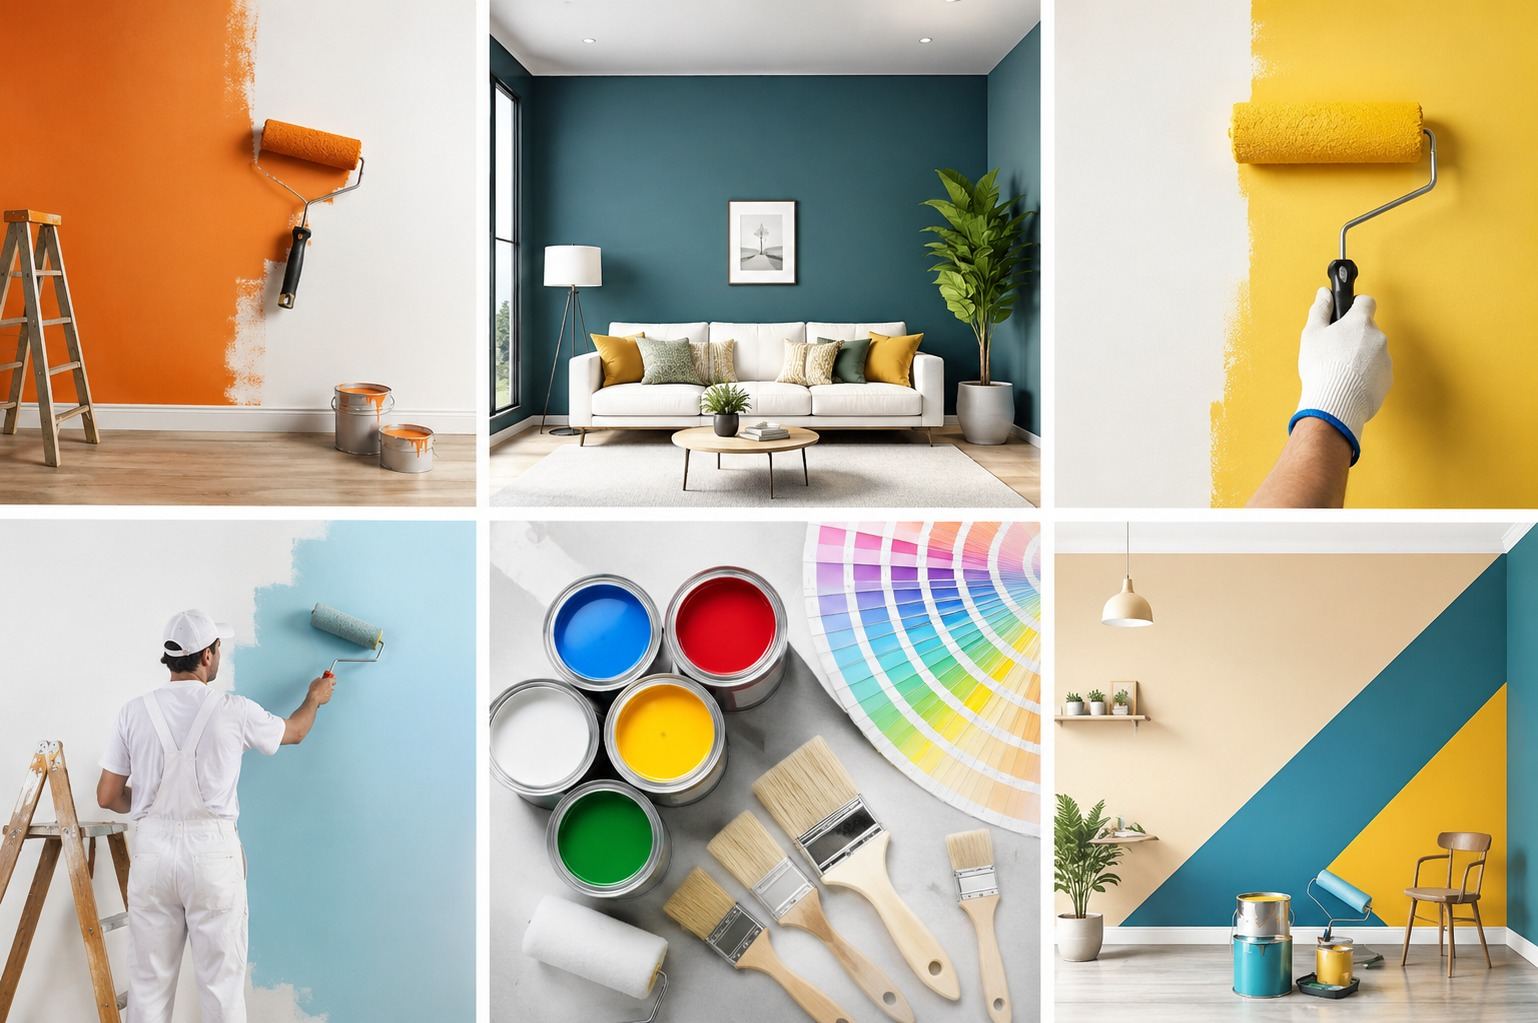
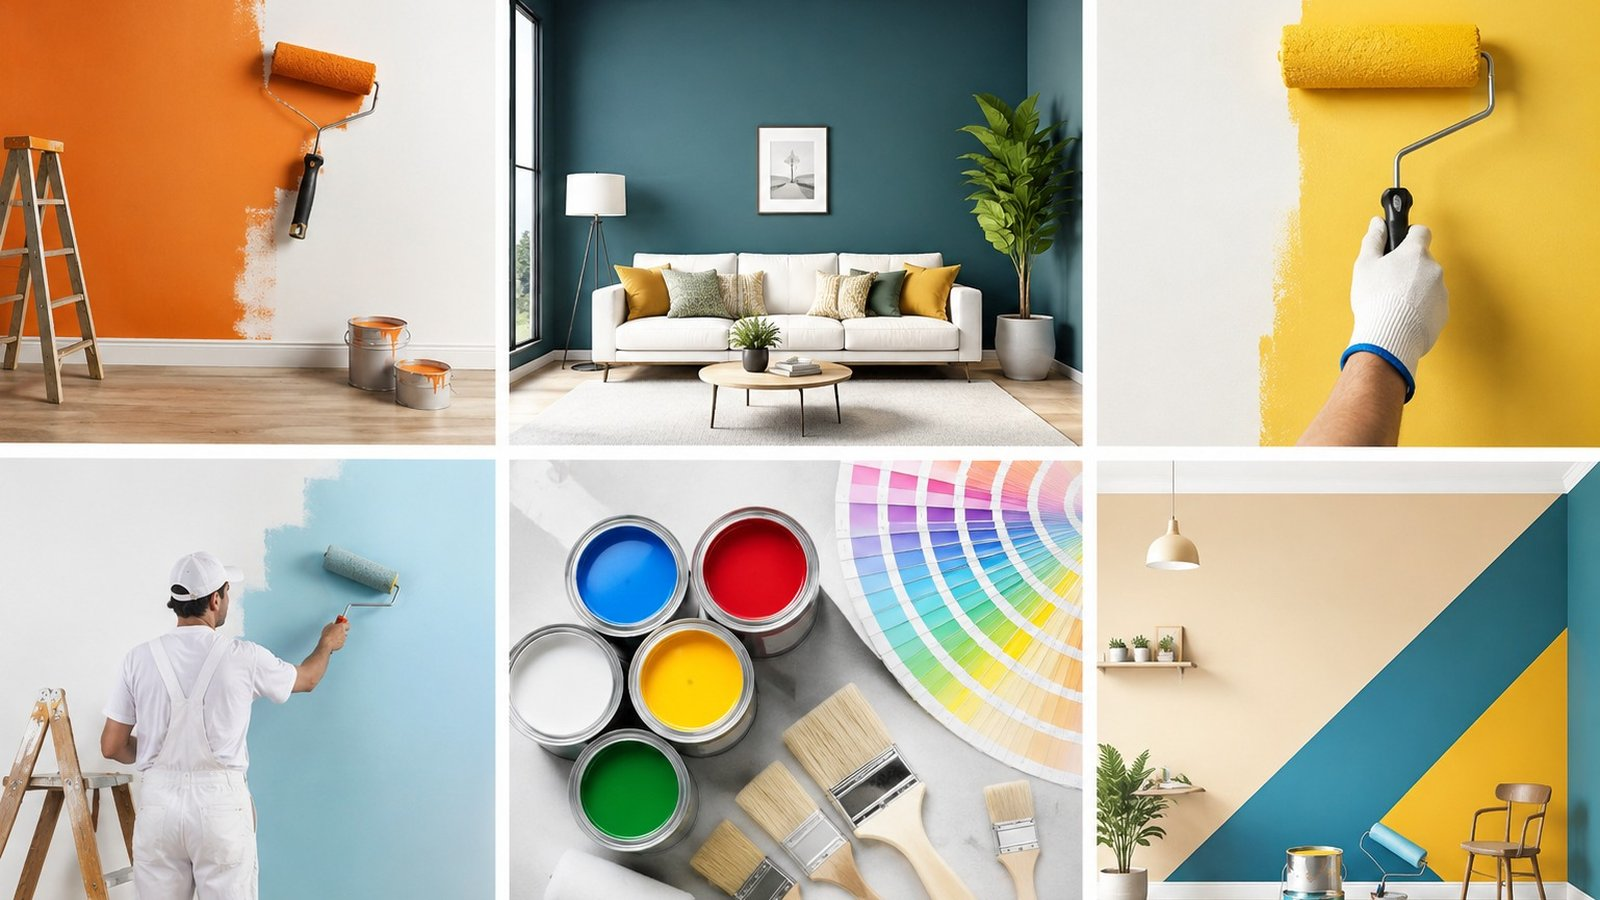
newly added

diff --git a/index.html b/index.html
@@ -127,20 +127,17 @@
 <!-- ===================== HERO WITH AUTO-CHANGING IMAGES ===================== -->
 <section class="hero">
   <div class="hero-slider" id="heroSlider">
-    <!-- Slide backgrounds are set via CSS (images/ folder paths in styles.css) -->
-    <div class="hero-slide slide-1 active" data-label="Interior Painting Excellence"></div>
-    <div class="hero-slide slide-2" data-label="Precision Wall Finishing"></div>
-    <div class="hero-slide slide-3" data-label="Professional Painting Teams"></div>
-    <div class="hero-slide slide-4" data-label="Waterproofing Specialists"></div>
-    <div class="hero-slide slide-5" data-label="Commercial Projects"></div>
+    <div class="hero-slide slide-1 active" data-label="Commercial Interior &amp; Furniture"></div>
+    <div class="hero-slide slide-2" data-label="Construction &amp; Civil Renovation"></div>
+    <div class="hero-slide slide-3" data-label="Painting &amp; Waterproofing"></div>
   </div>
   <div class="hero-overlay"></div>
   <div class="slide-dots" id="slideDots"></div>
-  <div class="slide-label" id="slideLabel">Interior Painting Excellence</div>
+  <div class="slide-label" id="slideLabel">Commercial Interior &amp; Furniture</div>
   <div class="hero-content">
     <div class="hero-badge">Chennai's Trusted Specialists Since 2010</div>
-    <h1>Painting &amp; <em>Waterproofing</em> Experts</h1>
-    <p class="hero-desc">Professional painting and waterproofing services across Chennai. Free inspection, expert workmanship, and guaranteed results — protecting your building inside and out.</p>
+    <h1 id="heroTitle">Xpert in Commercial <em>Interior and Furniture</em></h1>
+    <p class="hero-desc" id="heroDesc">Premium commercial interiors and custom furniture solutions crafted for offices, showrooms, and hospitality spaces across Chennai — free consultation, expert execution.</p>
     <div class="hero-btns">
       <a href="tel:[phone redacted]" class="btn-orange">📞 Get Free Quote</a>
       <a href="https://wa.me/919710908050" class="btn-teal">💬 Book Site Visit</a>
@@ -160,13 +157,14 @@
   <div class="stat-item reveal"><div class="big">5yr</div><div class="desc">Warranty on Work</div></div>
   <div class="stat-item reveal"><div class="big">Free</div><div class="desc">Site Inspection</div></div>
 </div>
-
 <!-- SERVICES -->
 <section id="services">
   <div class="section-label reveal">What We Offer</div>
   <div class="section-title reveal">Our <span>Services</span></div>
   <p class="section-sub reveal">Complete painting and waterproofing solutions for residential, commercial, and industrial properties across Chennai.</p>
+
   <div class="services-grid">
+
     <div class="service-card reveal">
       <div class="service-icon">🎨</div>
       <h3>Interior Painting</h3>
@@ -177,17 +175,21 @@
         <li>Wood &amp; furniture painting</li>
       </ul>
     </div>
+
     <div class="service-card reveal">
       <div class="service-icon">🏗️</div>
       <h3>Exterior Painting</h3>
       <ul>
         <li>Full building exterior waterproof coating</li>
-        <li>Weather-resistant coating</li>
+        <li>Weather &amp; water proofing coating</li>
+        <li>Cracks treatment</li>
         <li>Anti-fungal treatment</li>
         <li>Metal gate painting</li>
         <li>Commercial building painting</li>
+        <li>10-year product warranty</li>
       </ul>
     </div>
+
     <div class="service-card reveal">
       <div class="service-icon">💧</div>
       <h3>Waterproofing Services</h3>
@@ -198,9 +200,14 @@
         <li>Crack filling &amp; grouting</li>
         <li>Sunken waterproofing</li>
         <li>Sump waterproofing</li>
+        <li>Podium waterproofing</li>
+        <li>Expansion joints repair work</li>
+        <li>Mother slap waterproofing</li>
+        <li>Thar sheet &amp; APP membrane laying work</li>
         <li>10-year product warranty</li>
       </ul>
     </div>
+
     <div class="service-card reveal">
       <div class="service-icon">🧱</div>
       <h3>Floor Coating</h3>
@@ -210,12 +217,14 @@
         <li>PU coating</li>
       </ul>
     </div>
+
     <div class="service-card reveal">
       <div class="service-icon">🏠</div>
       <h3>Interior Works</h3>
       <ul>
         <li>False ceiling</li>
         <li>Partition work</li>
+        <li>Gypsum &amp; Glass Partition work</li>
         <li>Renovation</li>
         <li>Wall paneling</li>
         <li>Cupboard work</li>
@@ -224,24 +233,10 @@
         <li>Vinyl flooring</li>
         <li>UPVC work</li>
         <li>Sofa &amp; furniture</li>
+        <li>Sun Film</li>
       </ul>
     </div>
-    <div class="service-card reveal">
-      <div class="service-icon">🏠</div>
-      <h3>Interior &amp; Renovation Works</h3>
-      <ul>
-        <li>Interior renovation</li>
-        <li>Toilet renovation</li>
-        <li>Tile replacement</li>
-        <li>False ceiling</li>
-        <li>Partition work</li>
-        <li>Wall paneling</li>
-        <li>Cupboard work</li>
-        <li>UPVC work</li>
-        <li>Wooden flooring</li>
-        <li>Vinyl flooring</li>
-      </ul>
-    </div>
+
     <div class="service-card reveal">
       <div class="service-icon">⚡</div>
       <h3>Electrical Works</h3>
@@ -255,19 +250,38 @@
         <li>Commercial electrical works</li>
       </ul>
     </div>
+
+    <div class="service-card reveal">
+      <div class="service-icon">🏗️</div>
+      <h3>Civil & Infrastructure Works</h3>
+      <ul>
+        <li>Building construction</li>
+        <li>Civil renovation works</li>
+        <li>Roofing sheet &amp; Puff sheet &amp; Polycarbonate sheet works</li>
+        <li>Drainage systems</li>
+        <li>Thar road works</li>
+        <li>Cement road works</li>
+        <li>Parking paver block works</li>
+        <li>Car parking canopies</li>
+        <li>Garden & parking fencing</li>
+        <li>Interior renovation</li>
+        <li>Toilet renovation</li>
+        <li>Tile replacement</li>
+      </ul>
+    </div>
+
   </div>
 </section>
-
 <!-- WHY US -->
 <section id="why">
   <div class="section-label reveal">Our Advantage</div>
   <div class="section-title reveal">Why Choose <span>Building Xpert</span></div>
   <p class="section-sub reveal">We don't just do the job — we stand behind every stroke and every seal.</p>
   <div class="why-grid">
-    <div class="why-card reveal"><div class="why-num">01</div><h3>Free Site Inspection</h3><p>Before any work begins, Mohanraj personally visits your site to assess the exact condition, identify problem areas, and give you an honest, transparent quote — no hidden costs.</p></div>
-    <div class="why-card reveal"><div class="why-num">02</div><h3>Skilled Certified Workers</h3><p>All our painters and waterproofing technicians are trained and certified. We use the right tools, the right products, and the right techniques — every single time.</p></div>
-    <div class="why-card reveal"><div class="why-num">03</div><h3>5-Year Work Warranty</h3><p>We back our work with a 5-year warranty. If any issue arises with our waterproofing or painting within the warranty period, we fix it — at no extra cost to you.</p></div>
-    <div class="why-card reveal"><div class="why-num">04</div><h3>Premium Materials Only</h3><p>We use only top-grade products — Asian Paints, Berger, Dr. Fixit, Sika — sourced directly from authorized dealers. No compromise on material quality, ever.</p></div>
+    <div class="why-card reveal"><div class="why-num">01</div><h3>Free Site Inspection</h3><p>Before any work begins, Our team personally visits your site to assess the exact condition, identify problem areas, and give you an honest, transparent quote — no hidden costs.</p></div>
+    <div class="why-card reveal"><div class="why-num">02</div><h3>Skilled Certified Workers</h3><p>All our teams and  technicians are trained and certified. We use the right tools, the right products, and the right techniques — every single time.</p></div>
+    <div class="why-card reveal"><div class="why-num">03</div><h3>5-Year Work Warranty</h3><p>We back our work with a 5-year warranty. If any issue arises with our product or services within the warranty period, we fix it — at no extra cost to you -warranty based on product only.</p></div>
+    <div class="why-card reveal"><div class="why-num">04</div><h3>Premium Materials Only</h3><p>We use only top-grade products — Asian Paints, Berger, Dr. Fixit, Sika, Jsw, Zuari cement,Coromandel cement, Tata Steel, Ars Steel, iSteel, Greenply, Marino, Virgo and century ply etc   — sourced directly from authorized dealers. No compromise on material quality, ever.</p></div>
     <div class="why-card reveal"><div class="why-num">05</div><h3>On-Time Completion</h3><p>We commit to a timeline and we stick to it. No dragging jobs for weeks. Your home or office is back to normal as quickly and cleanly as possible.</p></div>
     <div class="why-card reveal"><div class="why-num">06</div><h3>Affordable &amp; Transparent</h3><p>Competitive pricing with absolutely no surprise charges. You get a full written quotation before work starts, and you pay exactly what was agreed. Period.</p></div>
   </div>
@@ -393,17 +407,17 @@
         </div>
         <div class="form-group">
           <label for="fservice">Service Required *</label>
-          <select id="fservice" name="service" required>
-            <option value="" disabled selected>Select a service</option>
-            <option>Interior Painting</option>
-            <option>Exterior Painting</option>
-            <option>Terrace Waterproofing</option>
-            <option>Bathroom Waterproofing</option>
-            <option>Wall Crack Repair</option>
-            <option>Basement Waterproofing</option>
-            <option>Full Building Painting</option>
-            <option>Other / Multiple Services</option>
-          </select>
+          <input type="text" id="fservice" name="service" placeholder="Eg: Terrace Waterproofing, Interior Painting..." list="serviceOptions" autocomplete="off" required/>
+          <datalist id="serviceOptions">
+            <option value="Interior Painting"/>
+            <option value="Exterior Painting"/>
+            <option value="Terrace Waterproofing"/>
+            <option value="Bathroom Waterproofing"/>
+            <option value="Wall Crack Repair"/>
+            <option value="Basement Waterproofing"/>
+            <option value="Full Building Painting"/>
+            <option value="Other / Multiple Services"/>
+          </datalist>
         </div>
         <div class="form-group">
           <label for="fmsg">Additional Details</label>
@@ -416,7 +430,7 @@
           <span id="btnText">Send Enquiry →</span>
         </button>
         <p style="font-size:.75rem;color:var(--text-muted);margin-top:.5rem;font-weight:600;">
-          📨 Your enquiry goes directly to Mohanraj's email &amp; phone
+          📨 Your enquiry goes directly to Our team email &amp; phone
         </p>
       </form>
     </div>
@@ -488,4 +502,4 @@
 <!-- ✅ SEPARATED JS — deferred so it never blocks page render -->
 <script src="js/main.js" defer></script>
 </body>
-</html> 
+</html>

diff --git a/js/main.js b/js/main.js
@@ -50,8 +50,29 @@ function dismissWaPopup() {
 const slides = document.querySelectorAll('.hero-slide');
 const dotsContainer = document.getElementById('slideDots');
 const slideLabel = document.getElementById('slideLabel');
+const heroTitle = document.getElementById('heroTitle');
+const heroDesc = document.getElementById('heroDesc');
 let currentSlide = 0;
 let sliderInterval;
+
+// Per-slide content — order matches slide-1, slide-2, slide-3
+const slideContent = [
+  {
+    label: 'Commercial Interior & Furniture',
+    title: 'Xpert in  <em>Commercial Interior</em> and <em>Furniture</em>',
+    desc:  'Premium commercial interiors and custom furniture solutions crafted for offices, showrooms, and hospitality spaces across Chennai — free consultation, expert execution.'
+  },
+  {
+    label: 'Construction & Civil Renovation',
+    title: 'Xpert Solution for <em>Construction</em> and <em>Civil Renovation</em>',
+    desc:  'End-to-end construction and civil renovation services — from structural repairs to full building makeovers. Trusted craftsmanship, on-time delivery across Chennai.'
+  },
+  {
+    label: 'Painting & Waterproofing',
+    title: 'Painting <em>and</em> <em>Waterproofing</em> Xpert',
+    desc:  'Professional painting and waterproofing services across Chennai. Free inspection, expert workmanship, and guaranteed results — protecting your building inside and out.'
+  }
+];
 
 slides.forEach((slide, i) => {
   const dot = document.createElement('button');
@@ -60,6 +81,23 @@ slides.forEach((slide, i) => {
   dot.addEventListener('click', () => goToSlide(i));
   dotsContainer.appendChild(dot);
 });
+
+function updateHeroContent(index) {
+  const c = slideContent[index];
+  slideLabel.classList.remove('visible');
+  heroTitle.style.opacity = '0';
+  heroDesc.style.opacity  = '0';
+  setTimeout(() => {
+    slideLabel.textContent        = c.label;
+    heroTitle.innerHTML           = c.title;
+    heroDesc.textContent          = c.desc;
+    heroTitle.style.animation     = 'none';
+    heroDesc.style.animation      = 'none';
+    heroTitle.style.opacity       = '1';
+    heroDesc.style.opacity        = '1';
+    slideLabel.classList.add('visible');
+  }, 400);
+}
 
 function goToSlide(index) {
   if (index === currentSlide) return;
@@ -70,17 +108,26 @@ function goToSlide(index) {
   currentSlide = index;
   slides[currentSlide].classList.add('active');
   dotsContainer.querySelectorAll('.slide-dot')[currentSlide].classList.add('active');
-  const label = slides[currentSlide].dataset.label;
-  slideLabel.classList.remove('visible');
-  setTimeout(() => { slideLabel.textContent = label; slideLabel.classList.add('visible'); }, 100);
+  updateHeroContent(currentSlide);
   setTimeout(() => { slides[prevSlide].classList.remove('exit'); }, 1000);
   resetInterval();
 }
 
 function nextSlide() { goToSlide((currentSlide + 1) % slides.length); }
 function resetInterval() { clearInterval(sliderInterval); sliderInterval = setInterval(nextSlide, 5000); }
+
+// Add transition style for smooth fade
+heroTitle.style.transition = 'opacity 0.4s ease';
+heroDesc.style.transition  = 'opacity 0.4s ease';
+
 setTimeout(() => { slideLabel.classList.add('visible'); }, 800);
 sliderInterval = setInterval(nextSlide, 5000);
+
+// After initial animations finish, lock hero elements so they don't hide on slide change
+setTimeout(() => {
+  const heroSection = document.querySelector('.hero');
+  if (heroSection) heroSection.classList.add('hero-loaded');
+}, 1200);
 
 /* ===== SCROLL REVEAL ===== */
 const observer = new IntersectionObserver((entries) => {

diff --git a/css/style.css b/css/style.css
@@ -97,11 +97,9 @@ nav {
 .hero-slide.exit { opacity: 0; transform: scale(1.03); transition: opacity 0.8s ease-in-out, transform 0.8s ease; }
 
 /* Image paths now point to images/ subfolder */
-.slide-1 { background-image: url('../images/header1.jpeg'); }
-.slide-2 { background-image: url('../images/header2.jpg'); }
-.slide-3 { background-image: url('../images/header3.jpg'); }
-.slide-4 { background-image: url('../images/header4.avif'); }
-.slide-5 { background-image: url('../images/header5.jpg'); }
+.slide-1 { background-image: url('../images/header3.jpeg'); }
+.slide-2 { background-image: url('../images/header4.jpeg'); }
+.slide-3 { background-image: url('../images/header1.jpeg'); }
 
 .hero-overlay {
   position:absolute; inset:0; z-index:1;
@@ -116,7 +114,7 @@ nav {
 .slide-label.visible { opacity: 1; }
 
 .hero-content { position:relative; z-index:2; max-width:680px; }
-.hero-badge { display:inline-flex; align-items:center; gap:.6rem; background:rgba(232,101,10,.2); border:1.5px solid rgba(232,101,10,.6); padding:.4rem 1rem; border-radius:30px; font-size:.72rem; font-weight:800; letter-spacing:.14em; text-transform:uppercase; color:#ffd4a8; margin-bottom:1.6rem; animation:fadeUp .6s ease .1s both; }
+.hero-badge { display:inline-flex; align-items:center; gap:.6rem; background:rgba(232,101,10,.2); border:1.5px solid rgba(232,101,10,.6); padding:.4rem 1rem; border-radius:30px; font-size:.72rem; font-weight:800; letter-spacing:.14em; text-transform:uppercase; color:#ffd4a8; margin-bottom:1.6rem; animation:fadeUp .6s ease .1s both; animation-fill-mode:forwards; }
 .hero-badge::before { content:''; width:7px; height:7px; border-radius:50%; background:var(--orange-lt); flex-shrink:0; }
 .hero h1 { font-family:'Bebas Neue',sans-serif; font-size:clamp(3.4rem,8vw,6.8rem); line-height:.92; letter-spacing:.04em; color:#fff; margin-bottom:1.6rem; animation:fadeUp .7s ease .25s both; text-shadow: 0 2px 20px rgba(0,0,0,.4); }
 .hero h1 em { font-style:normal; color:var(--orange-lt); display:block; }
@@ -286,6 +284,8 @@ footer { background:var(--brown-dark); padding:4rem 6% 2rem; }
 .footer-social svg { width:18px; height:18px; fill:#fff; }
 
 @keyframes fadeUp { from { opacity:0; transform:translateY(30px); } to { opacity:1; transform:translateY(0); } }
+.hero-loaded .hero-badge,
+.hero-loaded .hero-btns { animation:none !important; opacity:1 !important; transform:none !important; }
 
 /* ===================== WHATSAPP CHAT POPUP ===================== */
 .wa-popup-wrap { position: fixed; bottom: 5rem; right: 1.2rem; z-index: 9998; width: 300px; opacity: 0; transform: translateY(16px) scale(.95); transition: opacity .35s ease, transform .35s ease; pointer-events: none; }